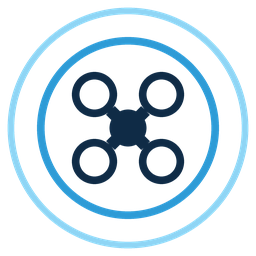
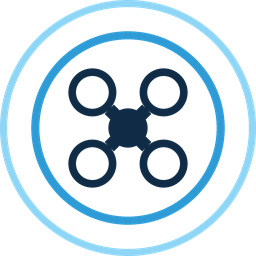
Przytnij ikonę do krawędzi kanwy
home-assistant/brands odrzuca obrazki z przezroczystym marginesem. Zewnętrzny
pierścień sięga teraz krawędzi, pozostałe proporcje przeskalowane, żeby układ
został bez zmian. Nie dotyczy kodu integracji, więc bez podbicia wersji.

diff --git a/tools/make_icon.py b/tools/make_icon.py
@@ -29,12 +29,16 @@ def draw_mark(size: int) -> Image.Image:
     draw = ImageDraw.Draw(image)
     c = size / 2
 
+    # home-assistant/brands rejects images with transparent padding, so the outer
+    # ring has to reach the canvas edge. Every other proportion is scaled to match.
+    K = 1 / 0.94
+
     def ring(radius_frac: float, width_frac: float, colour: tuple[int, ...]) -> None:
-        r = size * radius_frac
+        r = min(size * radius_frac * K, c)
         draw.ellipse(
-            [c - r, c - r, c + r, c + r],
+            [c - r, c - r, min(c + r, size - 1), min(c + r, size - 1)],
             outline=colour,
-            width=max(1, round(size * width_frac)),
+            width=max(1, round(size * width_frac * K)),
         )
 
     # Monitored area: an outer boundary and an inner one for depth.
@@ -42,10 +46,10 @@ def draw_mark(size: int) -> Image.Image:
     ring(0.355, 0.030, BLUE)
 
     # Quadcopter, top view: four rotors on the diagonals joined by arms.
-    arm_len = size * 0.185
-    rotor_r = size * 0.088
-    arm_w = round(size * 0.048)
-    body_r = size * 0.072
+    arm_len = size * 0.185 * K
+    rotor_r = size * 0.088 * K
+    arm_w = round(size * 0.048 * K)
+    body_r = size * 0.072 * K
 
     angles = [math.radians(a) for a in (45, 135, 225, 315)]
     offsets = [(math.cos(a) * arm_len, math.sin(a) * arm_len) for a in angles]
